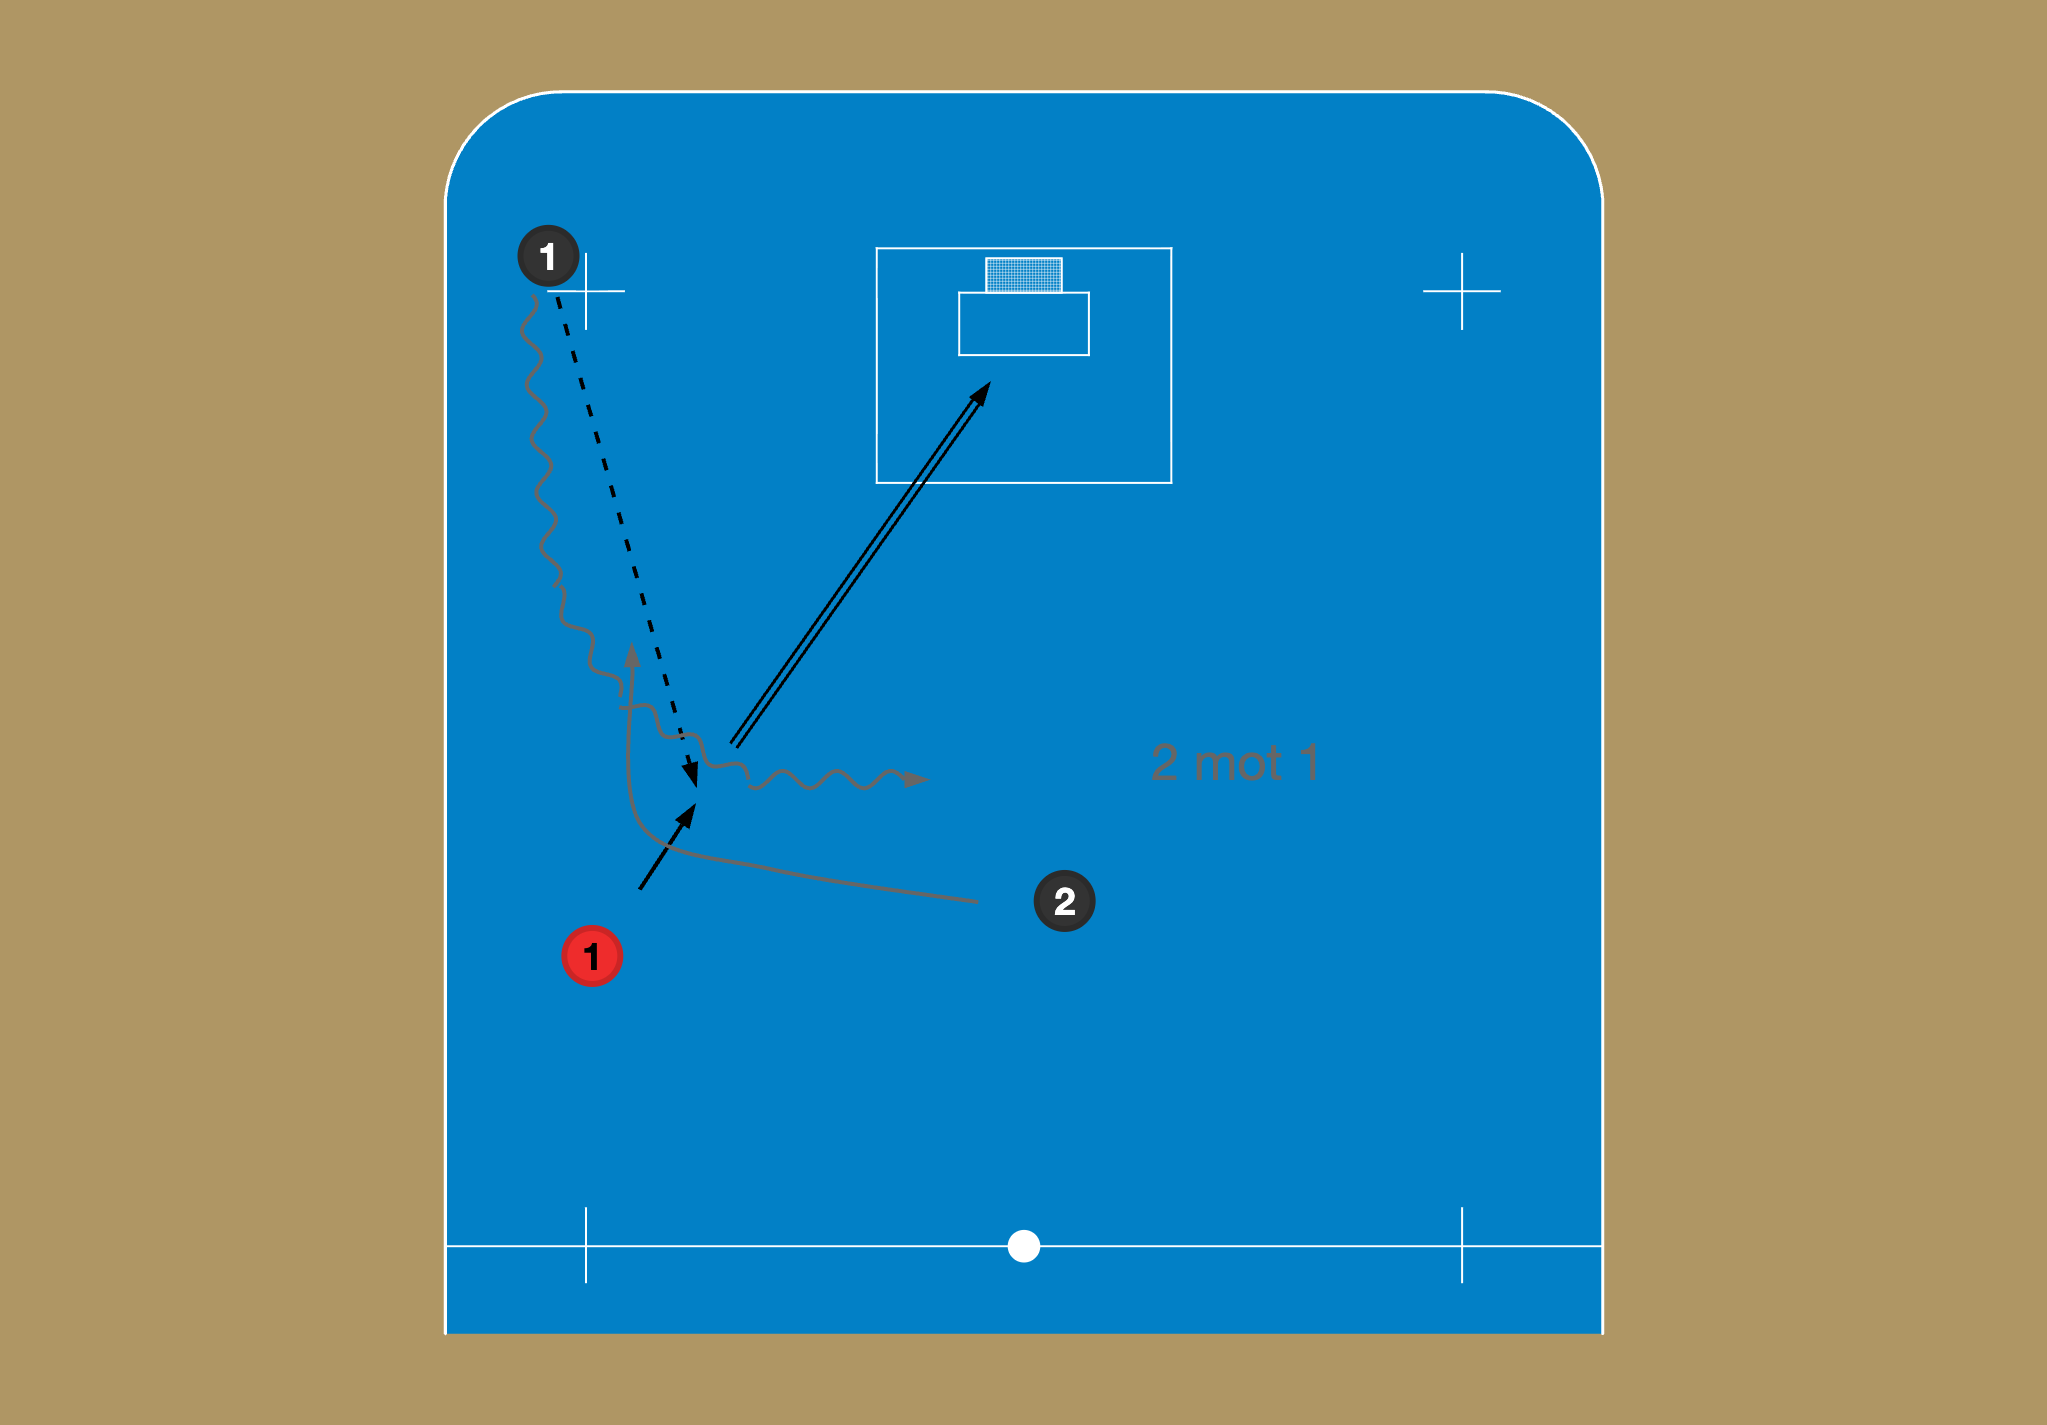
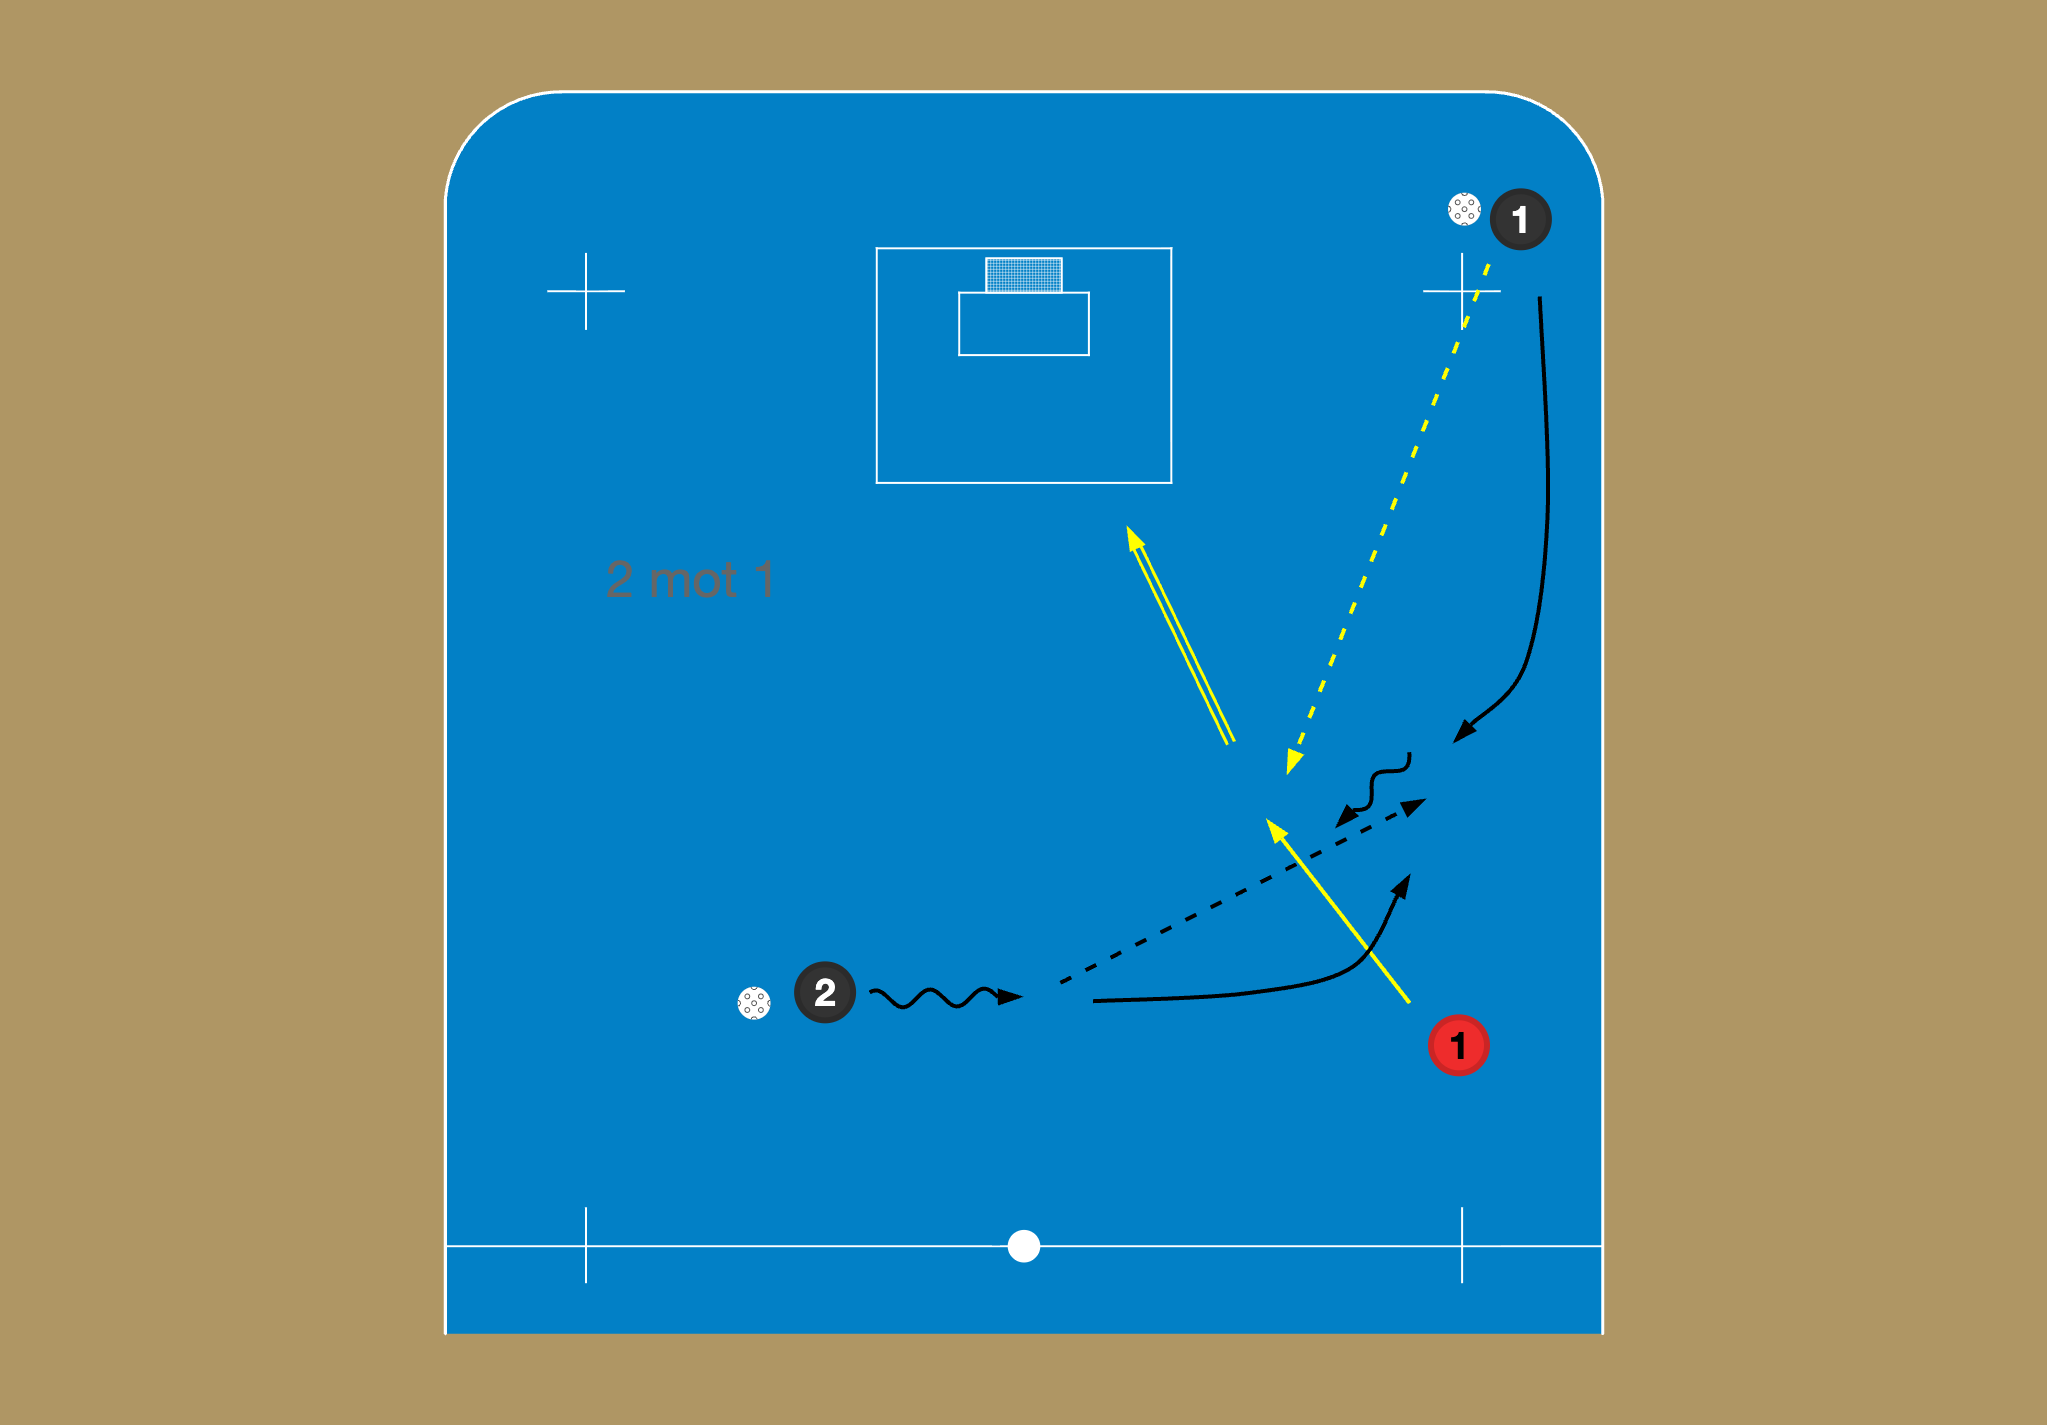
updated 2m1 and new ovningen direkt skott

diff --git a/training/ovningar.html b/training/ovningar.html
@@ -190,6 +190,7 @@
     <ol>
 <!-- BEGIN:toc -->
       <li data-toc="2m1_utveckling"><a href="#2m1_utveckling">2 mot 1 &ndash; fr&aring;n h&ouml;rn</a></li>
+      <li data-toc="gatillsida_direkt_skott"><a href="#gatillsida_direkt_skott">G&aring; till sida &ndash; direkt skott</a></li>
       <li data-toc="horn_5_pass"><a href="#horn_5_pass">H&ouml;rn &ndash; 5 passningar</a></li>
       <li data-toc="spanjorerna"><a href="#spanjorerna">Spanjorerna</a></li>
       <li data-toc="spelavstand_3v2"><a href="#spelavstand_3v2">Spelavst&aring;nd 3 v 2</a></li>
@@ -229,8 +230,21 @@
     <ol class="steps">
       <li>"1" passar till back, "r&ouml;tt 1"</li>
       <li>Back skjuter</li>
-      <li>"1" driver in med ny boll</li>
-      <li>"2" hj&auml;lper till i anfallet, kan spela &ouml;verl&auml;mning, eller s&aring; forts&auml;tter "1" sj&auml;lv, eller s&aring; g&aring;r "2" direkt framf&ouml;r m&aring;l</li>
+      <li>"1" springer upp, d&aring; b&ouml;rjar "2" men ny b&aring;ll passa &ouml;ver</li>
+      <li>"1" kan spela &ouml;verl&auml;mning, eller s&aring; forts&auml;tter "1" sj&auml;lv, eller s&aring; g&aring;r "2" direkt framf&ouml;r m&aring;l</li>
+    </ol>
+  </article>
+
+  <article class="exercise" id="gatillsida_direkt_skott" data-flags="skott">
+    <h2>G&aring; till sida &ndash; direkt skott</h2>
+    <img src="../assets/ovningar/gatillsida_direkt_skott.png" alt="&Ouml;vningsschema: G&aring; till sida &ndash; direkt skott" width="2047" height="1425" loading="lazy">
+    <ul class="tags">
+      <li>skott</li>
+    </ul>
+    <ol class="steps">
+      <li>b&ouml;rja springa bak&aring;t, pass och pass tilbaka</li>
+      <li>sen g&aring; till sida och direkt skott</li>
+      <li>viktigt att komma till skott position och timingen p&aring; passningen</li>
     </ol>
   </article>
 
